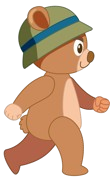
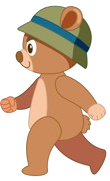
Pres

diff --git a/map.js b/map.js
@@ -26,6 +26,7 @@ const config = {
 const game = new Phaser.Game(config);
 
 let player;
+let background;
 let cursors;
 let platforms;
 let enemies;
@@ -34,18 +35,20 @@ function preload() {
     // Assurez-vous que le chemin vers votre image de fond est correct
     this.load.image('sky', 'platformer_background_2.png');
     this.load.image('ground', 'https://labs.phaser.io/assets/sprites/platform.png');
-    this.load.image('enemy', 'bear_walk_look_right.png');
+    this.load.image('enemy-left', 'bear_walk_look_left.png');
+    this.load.image('enemy-right', 'bear_walk_look_right.png');
 
     // Ajout des différentes textures du joueur
     this.load.image('player', 'bunny.png'); // Image par défaut
     this.load.image('player-jump', 'bunny_jump.png'); // Image de saut
-    this.load.image('player-left', 'bunny_walk.png'); // Image pour le mouvement à gauche
-    this.load.image('player-right', 'bunny_walk.png'); // Image pour le mouvement à droite
+    this.load.image('player-walk-left', 'bunny_walk_left.png'); // Image pour le mouvement à gauche
+    this.load.image('player-walk-right', 'bunny_walk_right.png'); // Image pour le mouvement à droite
 }
 
 function create() {
     // Ajouter le fond une seule fois et utiliser `setDisplaySize` pour qu'il prenne tout l'écran
-    const background = this.add.image(0, 0, 'sky').setOrigin(0, 0);
+    background = this.add.image(0, 0, 'sky').setOrigin(0, 0);
+
     background.setDisplaySize(this.scale.width, this.scale.height);
     background.setScrollFactor(0); // S'assurer que le fond ne bouge pas avec la caméra
 
@@ -70,6 +73,8 @@ function create() {
         .setScale(10, 2) // Ajuster l'échelle pour couvrir la largeur du monde
         .refreshBody()
         .setDepth(1); // S'assurer que la plateforme est au-dessus du fond
+
+
 
     // Ajouter d'autres plateformes si nécessaire
     platforms.create(600, 400, 'ground').setScale(2, 1).refreshBody().setDepth(1);
@@ -100,6 +105,11 @@ function create() {
         enemy.setCollideWorldBounds(true);
         enemy.setVelocityX(Phaser.Math.Between(-100, 100));
         enemy.setDepth(2); // S'assurer que les ennemis sont au-dessus des plateformes
+        if (enemy.body.velocity.x < 0) {
+            enemy.setTexture('enemy-left');
+        } else if (enemy.body.velocity.x > 0) {
+            enemy.setTexture('enemy-right');
+        }
     });
 
     // Collisions entre les ennemis et les plateformes
@@ -113,15 +123,20 @@ function create() {
 }
 
 function update() {
+
+    // Background movement
+    background.x = (-player.x) * 0.1;
+    background.y = (-player.y) * 0.1;
+
     // Si le joueur se déplace vers la gauche
     if (cursors.left.isDown) {
         player.setVelocityX(-160);
-        player.setTexture('player-left'); // Changer l'image du joueur quand il se déplace à gauche
+        player.setTexture('player-walk-left'); // Changer l'image du joueur quand il se déplace à gauche
     }
     // Si le joueur se déplace vers la droite
     else if (cursors.right.isDown) {
         player.setVelocityX(160);
-        player.setTexture('player-right'); // Changer l'image du joueur quand il se déplace à droite
+        player.setTexture('player-walk-right'); // Changer l'image du joueur quand il se déplace à droite
     }
     // Si le joueur ne se déplace pas
     else {
@@ -137,10 +152,15 @@ function update() {
     if (cursors.up.isDown && player.body.touching.down) {
 
         player.setVelocityY(-330);
-    } else if (player.body.touching.down) {
-        player.setTexture('player'); // Retourner à l'image de course quand le joueur touche le sol
     }
+    // else if (player.body.touching.down) {
+    //     player.setTexture('player'); // Retourner à l'image de course quand le joueur touche le sol
+    // }
 }
+// parallax.addEventListener("click", () => {
+//     console.log(parallax.scrollTop);
+//     firstLayer.style.bottom = parallax.scrollTop;
+// }
 
 function hitEnemy(player, enemy) {
     this.physics.pause();

diff --git a/index.html b/index.html
@@ -3,7 +3,7 @@
 
 <head>
     <meta charset="UTF-8">
-    <title>Mon Jeu Phaser</title>
+    <title>Death Friends</title>
     <link rel="stylesheet" href="style.css">
 </head>
 
